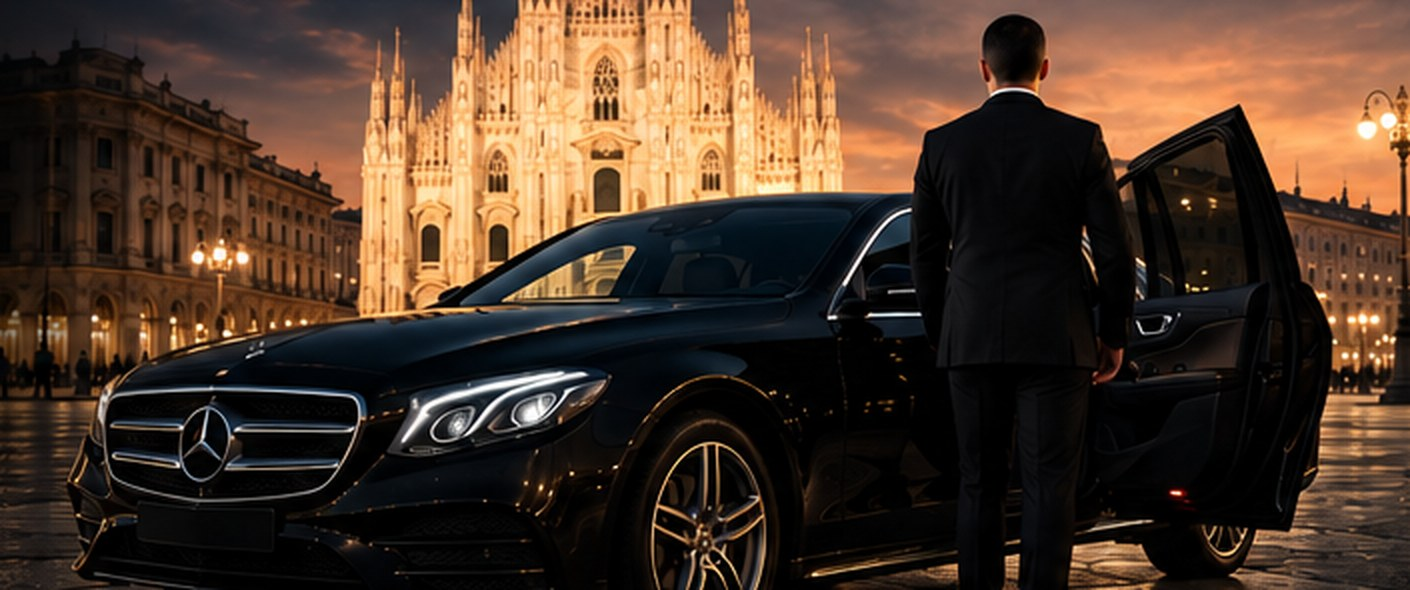
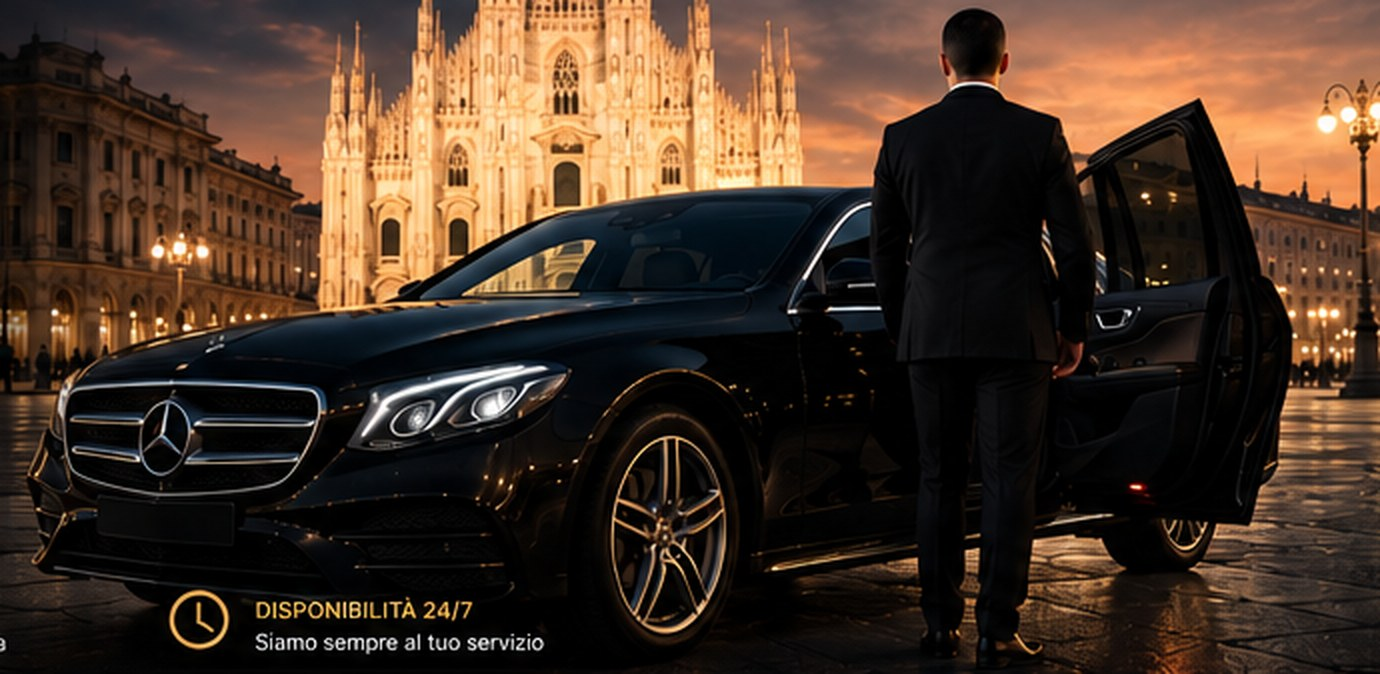
**Foto hero ridimensionata — completo** - La foto della homepage ora è meno "zoomata": si vedono interi il Duomo, la Mercedes nera e l'autista che apre la portiera, con anche un pezzo di piazza sulla destra - Ho ridotto anche l'effetto di ingrandimento durante lo scroll, così la scena resta più comp

diff --git a/frontend/src/components/Hero.jsx b/frontend/src/components/Hero.jsx
@@ -25,7 +25,7 @@ export default function Hero() {
   const { t } = useLanguage();
   const ref = useRef(null);
   const { scrollYProgress } = useScroll({ target: ref, offset: ["start start", "end start"] });
-  const bgY = useTransform(scrollYProgress, [0, 1], ["0%", "22%"]);
+  const bgY = useTransform(scrollYProgress, [0, 1], ["0%", "10%"]);
   const contentOpacity = useTransform(scrollYProgress, [0, 0.7], [1, 0]);
 
   return (
@@ -34,7 +34,7 @@ export default function Hero() {
         <img
           src={IMAGES.hero}
           alt="Piazza del Duomo di Milano al tramonto con Mercedes nera e autista professionale"
-          className="w-full h-[115%] object-cover"
+          className="w-full h-[108%] object-cover object-[58%_center]"
           loading="eager"
         />
         <div className="absolute inset-0 bg-gradient-to-b from-obsidian/80 via-obsidian/45 to-obsidian" />

diff --git a/memory/PRD.md b/memory/PRD.md
@@ -34,6 +34,9 @@ Sito one-page luxury per servizio NCC premium con base a Milano (brand: FIRST MI
 - Integrato in entrambi i moduli (WhatsApp rapido + preventivo email) su partenza/destinazione; inserimento manuale sempre consentito
 - Verificato: "Malpensa aeroporto" → suggerimenti T1/T2; "Milano Centrale" → Piazza Duca d'Aosta
 
+## Aggiornamento (13/09/2026 — hero)
+- Ritaglio hero rifatto (620,58,1310,395 dal mockup, 2x) + zoom ridotto (h-108%, parallasse 10%, object-position 58%): Duomo, vettura intera e autista tutti visibili
+
 ## Da completare (richiede dati dal cliente)
 - P1: URL social Instagram/Facebook/LinkedIn (ora "#")
 - P2: Dati societari (P.IVA/sede legale) da aggiungere a policy e footer quando disponibili
